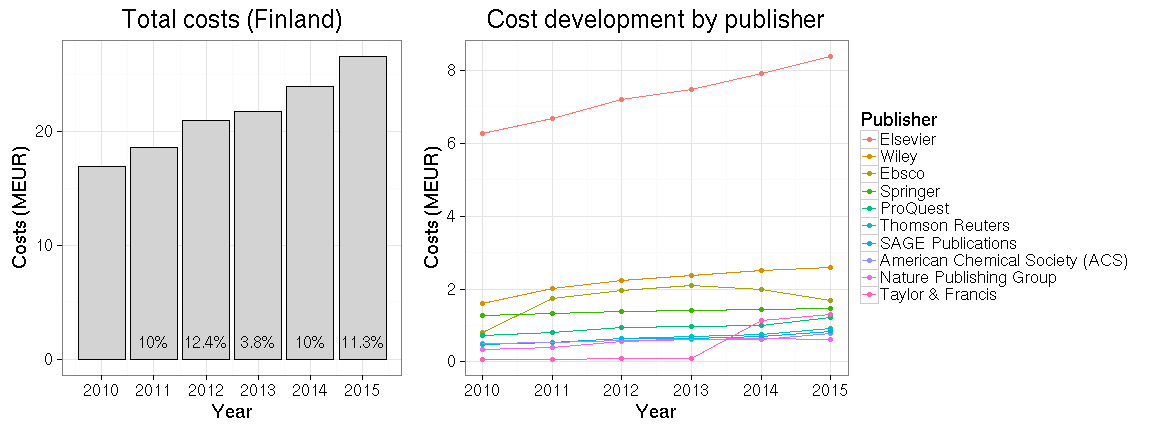
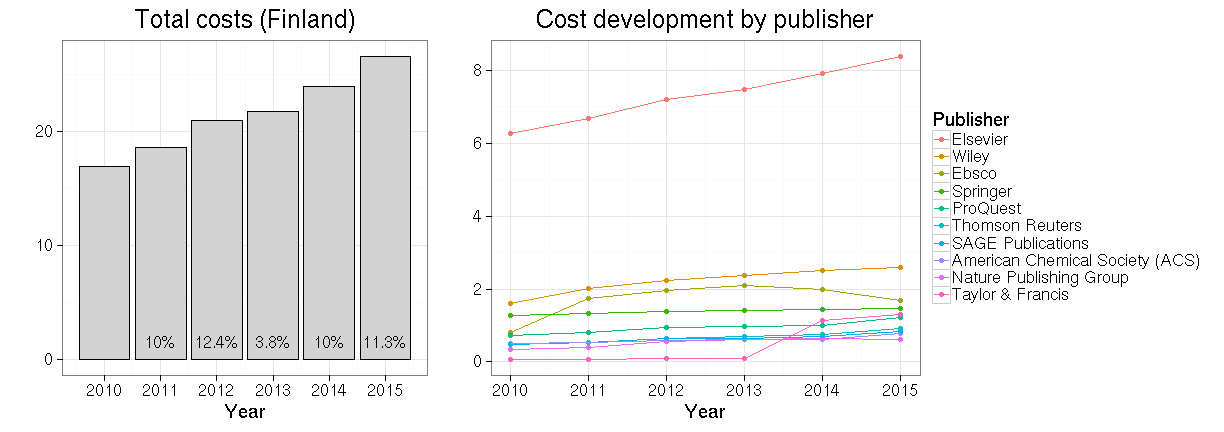
ok

diff --git a/20160610/foi.md b/20160610/foi.md
@@ -17,7 +17,7 @@ Scientific journal subscription costs in Finland 2010-2015
 
 ## Background
 
-Access to literature is fundamental to academic research but has been challenged with the rapidly increasing prices of academic journals, which university libraries find increasingly difficult to fund. Based on the [data from the US Association of Research Libraries](http://www.lib.washington.edu/scholpub/facts/economics), it can be estimated that the academic journal subscription charges increased four times faster than inflation in 1986-2007. Today, there are roughly 35 000 peer-reviewed academic journals ([Ware & Mabe, 2015](https://olh.openlibhums.org/articles/10.16995/olh.72/#B71)), and less than a third of these (11 000) are open access ([DOAJ, 2016](https://olh.openlibhums.org/articles/10.16995/olh.72/#B12)). The relative variation in prices is also considerable among the publishers. It was recently estimated, for instance, that Elsevier’s prices per citation are roughly 3x higher than with non-profit publishers; Emerald, Sage, and Taylor & Francis had roughly 10x higher prices ([Bergstrom et al. PNAS 2014](http://www.econ.ucsb.edu/~tedb/Journals/PNAS-2014-Bergstrom-1403006111.pdf)). The lack of pricing information and agreement details are likely to result in suboptimal contracts ([Cockerill, 2006](https://olh.openlibhums.org/articles/10.16995/olh.72/#B7); [Shieber, 2009](https://olh.openlibhums.org/articles/10.16995/olh.72/#B66)). Improved access to subscription costs can be expected to lead to better deals and lower costs for the universities.
+Access to literature is fundamental to academic research but has been challenged with the rapidly increasing prices of academic journals, which university libraries find increasingly difficult to fund. Based on the [data from the US Association of Research Libraries](http://www.lib.washington.edu/scholpub/facts/economics), it can be estimated that the academic journal subscription charges increased four times faster than inflation in 1986-2007. Today, there are roughly 35 000 peer-reviewed academic journals ([Ware & Mabe, 2015](https://olh.openlibhums.org/articles/10.16995/olh.72/#B71)), and less than a third of these (11 000) are open access ([DOAJ, 2016](https://olh.openlibhums.org/articles/10.16995/olh.72/#B12)). The relative variation in prices is also considerable among the publishers. It was recently estimated, for instance, that Elsevier’s prices per citation are roughly 3x higher than with non-profit publishers; Emerald, Sage, and Taylor & Francis had roughly 10x higher prices ([Bergstrom et al. PNAS 2014](http://www.econ.ucsb.edu/~tedb/Journals/PNAS-2014-Bergstrom-1403006111.pdf)). The lack of pricing information and agreement details are likely to result in suboptimal contracts ([Cockerill, 2006](https://olh.openlibhums.org/articles/10.16995/olh.72/#B7); [Shieber, 2009](https://olh.openlibhums.org/articles/10.16995/olh.72/#B66)). Improved access to subscription costs can hance be expected to lead to better deals and lower costs for the universities.
 
 Following [Tim Gowers successful FOI request on the subscription costs
 for scientific journals in
@@ -28,49 +28,51 @@ advocates](https://www.facebook.com/groups/241398182642057/permalink/41148285563
 the Finnish universities [turned down my FOI request in summer
 2014](https://github.com/okffi-science/2014-tietopyynto-lisenssimaksut),
 we appealed in court, which decided the case positive for us in August
-2015.
+2015. See a [separate blog post]() on this process.
 
-The [Open Science Initiative](http://openscience.fi) of the Finnish
-Ministry of Education then organized the [data release]() as
-summarized [elsewhere](). With this, Finland is becoming one of the
-first countries where the subscription fees have been released at the
-level of individual publishers. In fact, to our knowledge Finland is
-the only country where the exact costs are available at this level for
-all publishers and public institutions 2010-2015. In UK and US, for
-instance, the information is available for some, but not all
-publishers due to the complexities of gathering this
-information. Similar FOI request process are ongoing in other
-countries, including
+The data on the subscription costs by the Finnish universities is now
+released by the [Open Science Initiative](http://openscience.fi) of
+the Finnish Ministry of Education. With this, Finland becomes to our
+knowledge Finland the first country where the annual subscription fees
+for all individual publishers and public research institutions have
+been released, covering the years 2010-2015. In UK and US, the
+information is available for some, but not all publishers due to the
+complexities of gathering this information. Similar FOI request
+process are ongoing but not yet completed in other countries,
+including
 [Switzerland](https://wisspub.net/2014/10/13/intransparenz-bei-den-bibliotheksausgaben-von-schweizer-hochschulen/)
 and [New Zealand](http://publicaddress.net/9549); for a summary on
-other countries, see Stuart Lawson's [recent
+further countries, see Stuart Lawson's [recent
 post](http://stuartlawson.org/2016/06/publicly-available-data-on-international-journal-subscription-costs).
 
-Here, we provide a preliminary analysis of the data, including
+The data seems to contain only the subscription fees, and not open access
+article processing charges, as I could not find some major open access
+players from the list. It was recently reported by [Naukkarinen
+(2016)](https://avointiede.fi/documents/10864/12232/Avoimen+julkaisemisen+tuen+malli/73838e9b-7924-446c-9c7a-cc8f759919bb)
+that in 2014 [18% of the articles in Finnish universities were
+published as open
+access](https://l.facebook.com/l.php?u=https%3A%2F%2Favointiede.fi%2Fdocuments%2F10864%2F12232%2FAvoimen%2Bjulkaisemisen%2Btuen%2Bmalli%2F73838e9b-7924-446c-9c7a-cc8f759919bb&h=-AQFlKomT). It
+was also estimated that publishing all articles as Open Access would
+have cost 17 MEUR, whereas the subscription fees in 2014 were 22
+MEUR. This would support the transition to the Open Access model.
+
+Here, I provide a brief preliminary analysis of the data with
 [reproducible source
 code](https://github.com/antagomir/temp/blob/master/20160610/foi.Rmd). I
-have here translated key terms from the Finnish data release to better
-serve the international audience.
+have translated key terms from the Finnish data release to better
+serve the international audience. Pull requests for additional
+analyses are welcome and will be acknowledged appropriately.
 
 
 ## Overall subscription costs 2010-2015
 
 
-```
-## Warning in rbind_all(x, .id): Unequal factor levels: coercing to character
-```
 
-Based on the data collected by the Ministry of Education, Finland paid
+Based on the data collected by the Ministry of Education, Finland paid in total
 128.9 million EUR subscription and other
-fees on scientific publishing during 2010-2015.
+fees on scientific publishing in 2010-2015. The average annual costs for in Finland were 21 MEUR in 2010-2015; this is one third of the annual costs for journal subscriptions in Austria that have been estimated to be around 70 MEUR by the Austrian research funder Zentrale Einrichtung zur Förderung (FWF) ([Bauer et al., 2015](https://olh.openlibhums.org/articles/10.16995/olh.72/#B4)), and two thirds of the annual expenditure of 31 MEUR in [New Zealand](http://publicaddress.net/9549). Data for the top-10 publishers in the UK 2010-2014 is available in [Lawson, Meghreblian & Brook, 2015](https://olh.openlibhums.org/articles/10.16995/olh.72/#B45) ([Table 1](https://olh.openlibhums.org/articles/10.16995/olh.72)). During this period the UK paid altogether 4319 MEUR (rough estimate based on the exchange rate June 12, 2016) for the top-10 publishers, which is roughly half of the overall subscription expenditure in the UK based on the same article. The publisher-level information is available only for the top-10 publishers in the UK, whereas in Finland it is available for all 244 publishers. Finland paid 61 MEUR for the same top-10 publishers in the same period 2010-2014, which is  1.4% of the UK expenditure (sounds rather low?). 
 
-It seems to me that the data contains only the subscription fees, and
-not open access publishing fees, as I could not find some major open
-access players from the list. It was recently reported by [Naukkarinen (2016)](https://avointiede.fi/documents/10864/12232/Avoimen+julkaisemisen+tuen+malli/73838e9b-7924-446c-9c7a-cc8f759919bb) that in 2014 [18% of the articles in Finnish universities were published as open access](https://l.facebook.com/l.php?u=https%3A%2F%2Favointiede.fi%2Fdocuments%2F10864%2F12232%2FAvoimen%2Bjulkaisemisen%2Btuen%2Bmalli%2F73838e9b-7924-446c-9c7a-cc8f759919bb&h=-AQFlKomT). Importantly, it was also estimated that publishing all articles as Open Access would have cost 17 MEUR, where as the subscription fees were 22 MEUR. This observation would support the transition to the Open Access model
-
-It is interesting to compare the costs to other countries. The average annual costs for in Finland were 21 MEUR in 2010-2015; this is one third of the annual costs for journal subscriptions in Austria that have been estimated to be around 65–70 MEUR by the Austrian research funder Zentrale Einrichtung zur Förderung (FWF) ([Bauer et al., 2015](https://olh.openlibhums.org/articles/10.16995/olh.72/#B4)), and two thirds of the annual expenditure of 31 MEUR in [New Zealand](http://publicaddress.net/9549). Data for the top-10 publishers in the UK 2010-2014 is available in [Lawson, Meghreblian & Brook, 2015](https://olh.openlibhums.org/articles/10.16995/olh.72/#B45) ([Table 1](https://olh.openlibhums.org/articles/10.16995/olh.72)) and [Lawson & Meghreblian, F1000 Research 2015](http://f1000research.com/articles/3-274/v3). During this period the UK paid altogether 4319.4866653 MEUR (rough estimate based on the exchange rate June 12, 2016) for the top-10 publishers, which is roughly half of the overall expenditure in the UK. The publisher-level information is available only for the top-10 publishers in the UK, whereas in Finland it is available for all 244publishers. Finland paid 60.857873 MEUR for the same top-10 publishers in the same period 2010-2014, which is  1.4% of the UK expenditure. 
-
-Information for Finland is also available on the [agreement
+Information for Finland is available by [agreement
 type](table/cost_by_type.csv), organization type, and [subscription
 category](table/cost_by_category.csv).
 
@@ -80,16 +82,14 @@ category](table/cost_by_category.csv).
 
 ### Costs by publisher
 
-Overall, the Finnish data covers 244 publishers ([see annual costs by publisher](table/cost_by_publisher_year.csv)). The figure shows the absolute and relative fees paid to the top publishers during 2010-2015.
+Overall, the Finnish data covers 244 publishers ([see annual costs by publisher](table/cost_by_publisher_year.csv)). The left figure indicates the total subscription fees paid to the top publishers 2010-2015. Over one third of the total costs go to Elsevier, which has been often [criticized](https://gowers.wordpress.com/2014/04/24/elsevier-journals-some-facts/) for its huge [profit margins](http://journals.plos.org/plosone/article?id=10.1371%2Fjournal.pone.0127502). The costs are given per bundle, so we cannot compare average journal prices among individual publishers based on this data. A rough look at the number of subscriptions indicates that Elsevier has third most subscriptions (3.7%) but this is not very informative as the bundle sizes may vary greatly. 
 
-Interestingly, over one third of the total costs go to Elsevier, which is often [criticized](https://gowers.wordpress.com/2014/04/24/elsevier-journals-some-facts/) for its huge [profit margins](http://journals.plos.org/plosone/article?id=10.1371%2Fjournal.pone.0127502). Unfortunately the costs are given by bundle, so we cannot estimate prices per individual article between publishers from this data. A rough look at the number of subscriptions indicates that Elsevier has third most subscriptions (3.7%) but this is not very informative as the bundle sizes may vary greatly. 
-
-<img src="figure/foi-totalcosts2b-1.png" title="plot of chunk foi-totalcosts2b" alt="plot of chunk foi-totalcosts2b" width="430px" /><img src="figure/foi-totalcosts2b-2.png" title="plot of chunk foi-totalcosts2b" alt="plot of chunk foi-totalcosts2b" width="430px" />
+![plot of chunk foi-totalcosts2b](figure/foi-totalcosts2b-1.png)
 
 
 
 
-The total costs paid to scientific publishers by Finland have increased roughly 10% per year in 2010-2015 (annual increase is indicated in the left figure). The top-10 publishers (out of 244) correspond to 77% of the overall costs (right figure). The full [annual costs by publisher](table/cost_by_publisher_year.csv) are in a separate table.
+The total costs paid to scientific publishers by Finland have increased roughly 10% per year in 2010-2015 (annual increase is indicated in the left figure). The top-10 publishers correspond to 77% of the overall costs (right figure). See a separate table for full [annual costs by publisher](table/cost_by_publisher_year.csv). 
 
 <img src="figure/foi-costbytime-1.png" title="plot of chunk foi-costbytime" alt="plot of chunk foi-costbytime" width="860px" />
 
@@ -98,11 +98,11 @@ The total costs paid to scientific publishers by Finland have increased roughly 
 
 
 
-The Finnish data collection includes 62 organizations ([see annual costs by organization](table/cost_by_organization_year.csv)). The universities ('yliopisto') carry 80.4% of all costs (left figure); University of Helsinki has the highest total costs 2010-2015 (24.4 MEUR; top institutions shown in the right figure).
+The Finnish data collection includes 62 organizations ([see annual costs by organization](table/cost_by_organization_year.csv)). The universities ('yliopisto') are responsible of 80.4% of all costs (left figure); University of Helsinki had the highest total costs in 2010-2015 (24.4 MEUR; top institutions shown in the right figure).
 
 <img src="figure/foi-totalcosts2d-1.png" title="plot of chunk foi-totalcosts2d" alt="plot of chunk foi-totalcosts2d" width="420px" /><img src="figure/foi-totalcosts2d-2.png" title="plot of chunk foi-totalcosts2d" alt="plot of chunk foi-totalcosts2d" width="420px" />
 
-As could be expected, the costs increase evenly across institutions. 
+As could be expected, the costs increase rather evenly across institutions. 
 
 ![plot of chunk foi-timebyorganization2](figure/foi-timebyorganization2-1.png)
 
